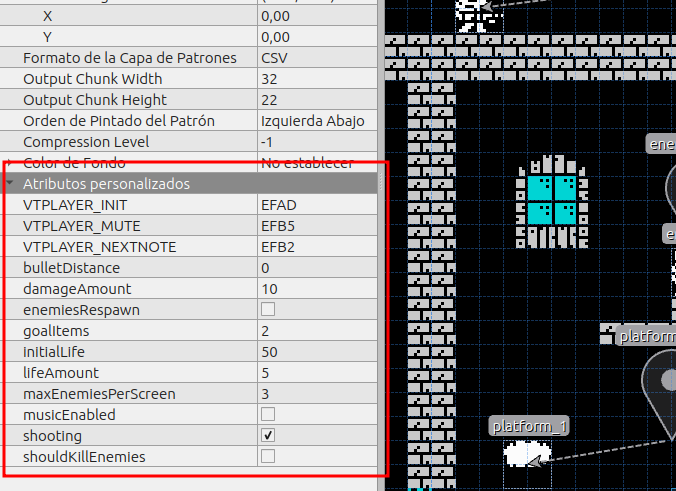
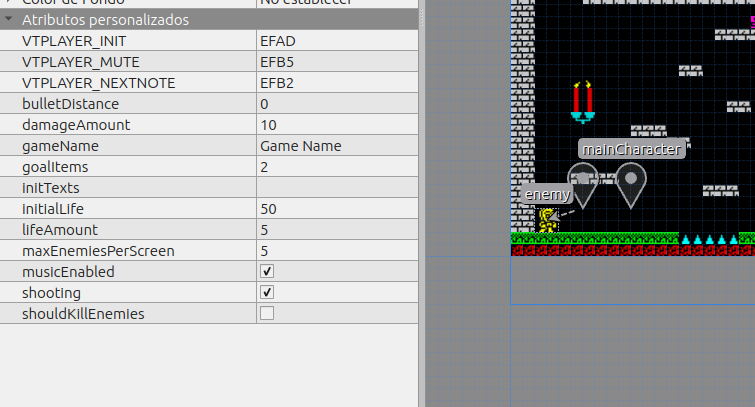
Added gameName setting and Vortex on general settings

diff --git a/pages/mydoc/mydoc_tiled_general_configuration.md b/pages/mydoc/mydoc_tiled_general_configuration.md
@@ -12,7 +12,11 @@ Puedes añadir configuraciones generales de tu juego en las propiedades personal
 
 Propiedades personalizadas:
 
+* **VTPLAYER_INIT** (string). Posición de memoria inicial para la música vortex (Se verá en el capítulo de música en el juego)
+* **VTPLAYER_MUTE** (string). Posición de memoria de mute para la música vortex (Se verá en el capítulo de música en el juego)
+* **VTPLAYER_NEXTNOTE** (string). Posición de memoria para reproducir la próxima nota para la música vortex (Se verá en el capítulo de música en el juego)
 * **bulletDistance** (int). Distancia que queramos que recorra la bala. Si seteamos una distancia corta como de 2, da el efecto de que el personaje ataca con el arma a corta distancia como una espada.
+* **gameName** (string). Nombre del juego. Aparecerá en el título loading cuando carga y el tap se generará con este nombre.
 * **damageAmount** (int). Cuánto daño le hacen al personaje los enemigos.
 * **enemiesRespawn** (int). Con esto seteamos si queremos que los enemigos vuelvan a aparecer, aunque los hayamos matado, cuando volvemos a la habitación.
 * **goalItems** (int). Número de items necesarios para finalizar el juego.
